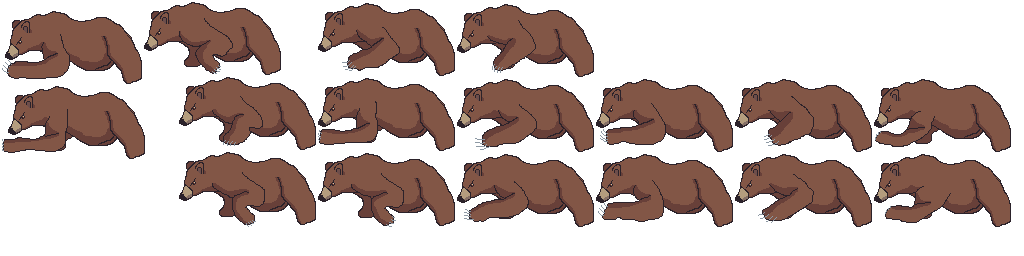
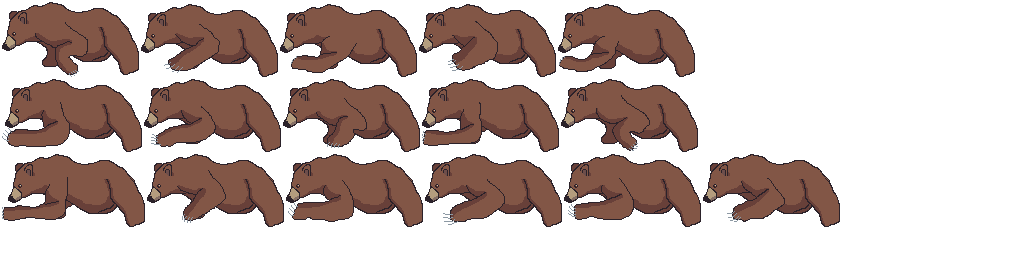
March 2nd

diff --git a/core/src/main/java/io/github/MilanJ4480/Bear_Game/pre_alpha/Player.java b/core/src/main/java/io/github/MilanJ4480/Bear_Game/pre_alpha/Player.java
@@ -5,15 +5,21 @@ import com.badlogic.gdx.Input;
 import com.badlogic.gdx.graphics.g2d.*;
 import com.badlogic.gdx.math.Polygon;
 
+import java.util.Arrays;
+
 import static java.lang.Math.sqrt;
 
 public class Player{
 
     private TextureAtlas bearWalk1Atlas;
+    private TextureAtlas bearSwipeAtlas;
+    private Animation<TextureRegion> bearAnimation;
     private Animation<TextureRegion> bearWalk1;
+    private Animation<TextureRegion> bearSwipe;
     private Sprite bear;
 //    private Rectangle rectBear;
     private Polygon polyBear;
+    private Polygon swipeBox;
 
     private float bearX;
     private float bearY;
@@ -28,6 +34,7 @@ public class Player{
     private boolean tl;
     private boolean doG;
     private float jumpStrength;
+    private boolean attack;
 
     public Player(float X, float Y){
 
@@ -35,7 +42,12 @@ public class Player{
         bearWalk1Atlas = new TextureAtlas("bearWalk1Atlas/bearWalk.atlas");
         bearWalk1 = new Animation<>(1f/12f, bearWalk1Atlas.findRegions("bear_walk_1"));
         bearWalk1.setPlayMode(Animation.PlayMode.LOOP);
-        bear = new Sprite( bearWalk1.getKeyFrame(0));
+        bearAnimation = bearWalk1;
+
+        bearSwipeAtlas = new TextureAtlas("bearWalk1Atlas/swipe.atlas");
+        bearSwipe = new Animation<>(1f/80f, bearSwipeAtlas.findRegions("swipe"));
+
+        bear = new Sprite( bearAnimation.getKeyFrame(0));
         bear.setScale(1, 1);
         bear.setPosition(bearX, bearY);
 //        rectBear = new Rectangle( bear.getX(), bear.getY(), bear.getWidth(), bear.getHeight());
@@ -48,6 +60,15 @@ public class Player{
         polyBear = new Polygon(vertices);
         polyBear.setPosition(X,Y);
 
+        float[] swipeVertices = new float[] {
+            0, 0,
+            polyBear.getBoundingRectangle().getWidth()/2, 0,
+            polyBear.getBoundingRectangle().getWidth()/2, polyBear.getBoundingRectangle().getHeight()/2,
+            0, polyBear.getBoundingRectangle().getHeight()/2
+        };
+        swipeBox = new Polygon(swipeVertices);
+
+
         bearS = 75;
         bearV = 0;
         bearX = X;
@@ -59,13 +80,18 @@ public class Player{
         tr=false;
         tl=false;
         doG=true;
+        attack=false;
     }
 
     public float getX(){ return polyBear.getX(); }
     public float getY(){ return polyBear.getY(); }
-    public float getV() { return bearV; }
     public Polygon getPolygon() { return polyBear; }
+    public Polygon getSwipeBox(){return swipeBox;}
+
     public boolean getFace(){ return bearFace; }
+    public boolean getAttack(){ return attack; }
+
+    public float getV() { return bearV; }
     public void setX(float X){bearX = X;}
     public void setY(float Y){bearY = Y;}
     public float getS() { return bearS; }
@@ -81,6 +107,13 @@ public class Player{
     public float getRightX(){ return bearX + polyBear.getBoundingRectangle().getWidth();}
     public float getLeftX(){ return bearX; }
     public float getCenter() { return bearX + polyBear.getBoundingRectangle().getWidth() / 2;}
+
+    public void swapAnimation(Animation<TextureRegion> animation, boolean loop){
+        if (loop) animation.setPlayMode(Animation.PlayMode.LOOP);
+        else animation.setPlayMode(Animation.PlayMode.NORMAL);
+        bearAnimation = animation;
+        stateTime = 0f;
+    }
 
     private void gravity(float delta){
         if (bearY<floor){
@@ -103,7 +136,18 @@ public class Player{
         floor = f;
         if (Gdx.input.isKeyPressed(Input.Keys.E)) bearS=175;
         else bearS=75;
-        if (Gdx.input.isKeyPressed(Input.Keys.D)) {
+        if (Gdx.input.isButtonJustPressed(Input.Buttons.LEFT) && bearAnimation==bearWalk1){
+            swapAnimation(bearSwipe, false);
+            attack = true;
+        }
+        else if (bearAnimation.isAnimationFinished(stateTime) && bearAnimation!=bearWalk1){
+            swapAnimation(bearWalk1,true);
+            attack = false;
+        }
+        if (bearAnimation == bearSwipe){
+            stateTime += delta;
+        }
+        else if (Gdx.input.isKeyPressed(Input.Keys.D)) {
             stateTime += delta;
 //            if (jump && !tr) bearX+=250*delta;
             bearX += (bearS) * delta;
@@ -115,8 +159,17 @@ public class Player{
             bearX += (-bearS) * delta;
             bearFace = true;
             }
-
-        System.out.println(stateTime);
+        else{
+            if(!bearAnimation.getKeyFrame(stateTime).equals(bearAnimation.getKeyFrames()[16])){
+                if (bearAnimation.getKeyFrameIndex(stateTime) > 8 && bearAnimation.getKeyFrameIndex(stateTime)<16) stateTime += delta;
+                else {
+                    stateTime -= delta;
+                    if (stateTime < 0){
+                        stateTime = bearAnimation.getAnimationDuration();
+                    }
+                }
+            }
+        }
         if  (Gdx.input.isKeyPressed(Input.Keys.SPACE) && !jump) {
             jump=true;
             bearV+=jumpStrength;
@@ -129,16 +182,19 @@ public class Player{
 
         bear.setPosition(bearX, bearY);
         polyBear.setPosition(bearX, bearY);
+        if(bearFace) swipeBox.setPosition(bearX, bearY);
+        else swipeBox.setPosition(bearX+(bear.getWidth()/2), bearY);
     }
 
     public void render(SpriteBatch batch){
-        TextureRegion region = bearWalk1.getKeyFrame(stateTime, true);
+        TextureRegion region = bearAnimation.getKeyFrame(stateTime);
         doFlip(region);
         bear.setRegion(region);
         bear.draw(batch);
     }
 
     public void dispose(){
+        bearSwipeAtlas.dispose();
         bearWalk1Atlas.dispose();
     }
 

diff --git a/core/src/main/java/io/github/MilanJ4480/Bear_Game/pre_alpha/Main.java b/core/src/main/java/io/github/MilanJ4480/Bear_Game/pre_alpha/Main.java
@@ -72,7 +72,7 @@ public class Main extends ApplicationAdapter {
 
         player=new Player(50, ground.getHeight());
         entity=new Entity(log, 150, 0, 4, 4);
-        enemy = new Enemy(fox, 150, 100, 0.1f, 0.1f);
+        enemy = new Enemy(fox, 150, 100, 0.1f, 0.1f, 4);
         cave = new Cave(caveTexture, -640, chunkManager.getFloor(0, 1, 0)-48);
 
     }
@@ -84,7 +84,7 @@ public class Main extends ApplicationAdapter {
     public void hitbox(float x, float y, float w, float h){
         shapeRenderer.setProjectionMatrix(camera.combined);
         shapeRenderer.begin(ShapeRenderer.ShapeType.Line);
-        shapeRenderer.setColor(Color.RED); // Choose a color for visibility
+        shapeRenderer.setColor(Color.RED);
         shapeRenderer.rect(x, y, w, h);
         shapeRenderer.end();
     }
@@ -100,7 +100,7 @@ public class Main extends ApplicationAdapter {
         player.update(chunkManager.getFloor(player.getX(), player.getWidth(), player.getY()), delta);
         entity.update(delta, chunkManager.getFloor(entity.getX(), entity.getWidth(), entity.getY()), player, player.getFace());
         chunkManager.update(player.getX());
-        enemy.update(delta, chunkManager.getFloor(enemy.getX(), enemy.getWidth(), enemy.getY()), player.getCenter());
+        enemy.update(delta, chunkManager.getFloor(enemy.getX(), enemy.getWidth(), enemy.getY()), player.getAttack(), player.getCenter(), player.getSwipeBox());
 
         camera.position.set(player.getCenter(), player.getY()+64, 0);
         camera.update();
@@ -123,8 +123,9 @@ public class Main extends ApplicationAdapter {
 
         batch.end();
 
-//        hitbox(player.getX(), player.getY(), player.getWidth(), player.getHeight());
-//        hitbox(entity.getX(), entity.getY(), entity.getWidth(), entity.getHeight());
+        //hitbox(player.getX(), player.getY(), player.getWidth(), player.getHeight());
+        //if (player.getAttack()) hitbox(player.getSwipeBox().getX(), player.getSwipeBox().getY(), player.getSwipeBox().getBoundingRectangle().getWidth(), player.getSwipeBox().getBoundingRectangle().getHeight());
+        //hitbox(enemy.getX(), enemy.getY(), enemy.getWidth(), enemy.getHeight());
 //        hitbox(bgGround.getX(), bgGround.getY(),  bgGround.getWidth(), bgGround.getHeight());
     }
 

diff --git a/core/src/main/java/io/github/MilanJ4480/Bear_Game/pre_alpha/Enemy.java b/core/src/main/java/io/github/MilanJ4480/Bear_Game/pre_alpha/Enemy.java
@@ -13,6 +13,9 @@ public class Enemy{
     private Intersector.MinimumTranslationVector mtv;
     private Random rand;
 
+    private int health;
+    private boolean hit;
+
     private float x;
     private float y;
     private float w;
@@ -25,7 +28,7 @@ public class Enemy{
     private boolean d;
     private float s;
 
-    public Enemy(Texture texture, float x, float y, float w, float h) {
+    public Enemy(Texture texture, float x, float y, float w, float h, int health) {
         this.entity = new Sprite(texture);
         this.x = x;
         this.y = y;
@@ -34,6 +37,7 @@ public class Enemy{
         this.hv=0;
         this.ha=0;
         s=100;
+        this.health = health;
 
         floor=0;
 
@@ -57,6 +61,11 @@ public class Enemy{
     public float getHeight() { return hitbox.getBoundingRectangle().getHeight(); }
     public float getX() { return x; }
     public float getY() { return y; }
+
+    public void playerContact(Polygon swipe){
+        if(!hit && Intersector.overlapConvexPolygons(hitbox, swipe)) health -= 1;
+        hit = true;
+    }
 
     public void move(float delta, float playerX){
         if(rand.nextInt(51)==1) d=!d;
@@ -91,13 +100,19 @@ public class Enemy{
         }
     }
 
-    public void update(float delta, float floor, float playerX){
-        move(delta, playerX);
-        gravity(delta, floor);
+    public void update(float delta, float floor, boolean attack, float playerX, Polygon swipe){
+        if(health>0){
+            move(delta, playerX);
+            gravity(delta, floor);
+            if(attack) {
+                playerContact(swipe);
+            }
+            else hit = false;
+        }
     }
 
     public void render(Batch batch) {
-        entity.draw(batch);
+        if (health>0) entity.draw(batch);
     }
 
 }
